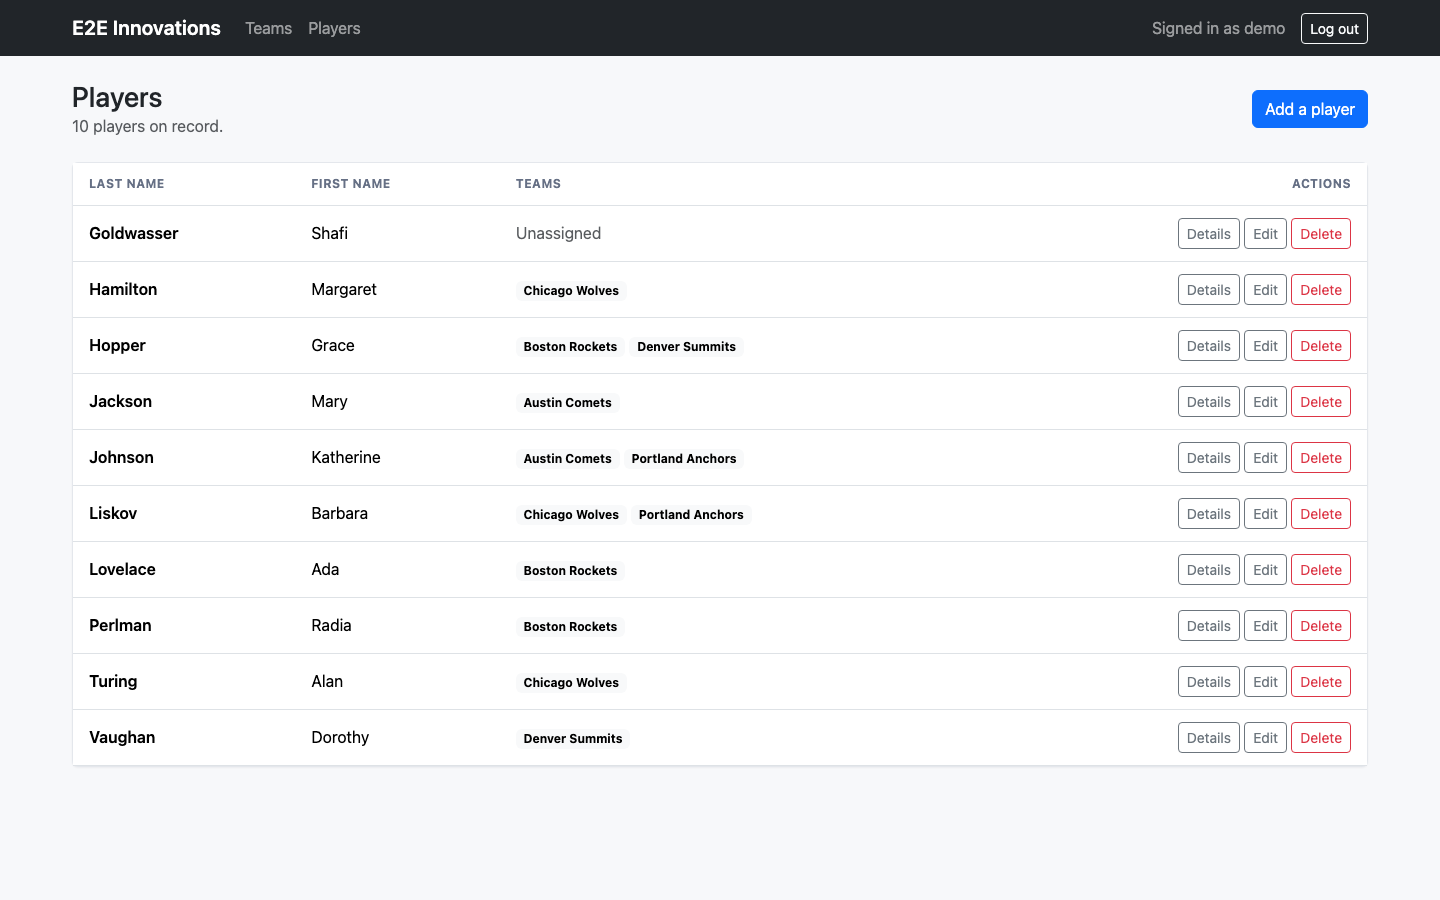
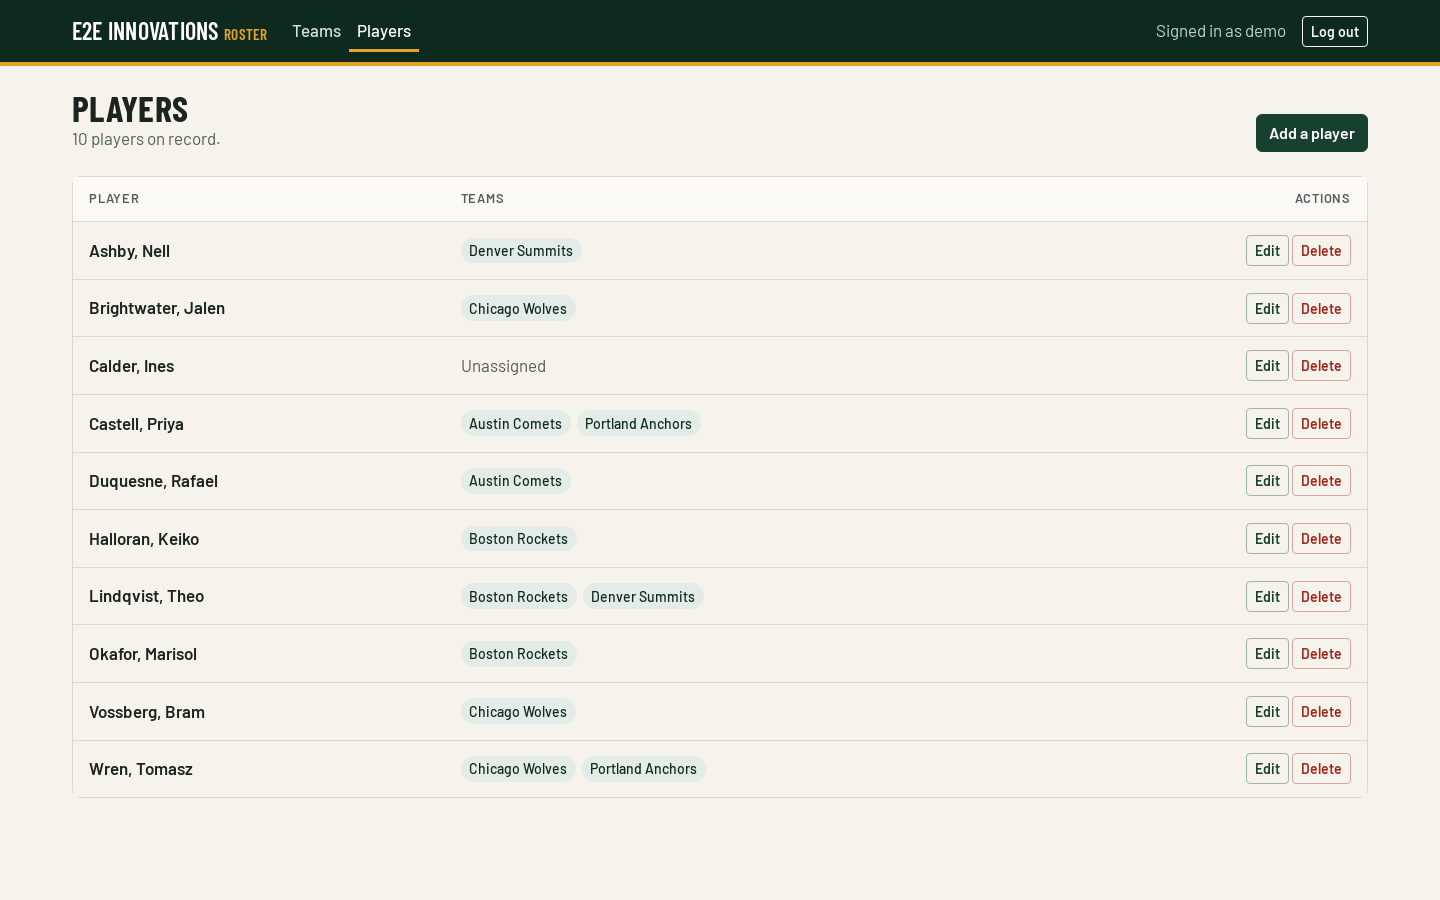
Rewrite the README around Compose and refresh the screenshots

diff --git a/README.md b/README.md
@@ -1,65 +1,122 @@
 # Sports Roster
 
-A Django app for managing sports teams and their players. Teams have a city and a mascot, players have a name, and a player can be on more than one team's roster. Everything sits behind a login. This was a coding exercise for E2E Innovations (the name in the navbar), so "E2E" refers to the client, not end-to-end testing.
+A Django app for managing sports teams and their players. A team is a city plus a mascot, a player has a first and last name, and one player can sit on several teams' rosters at once. Everything sits behind a login.
+
+This was a coding exercise for E2E Innovations (the name in the navbar), so "E2E" refers to the client, not end-to-end testing.
 
 ![Team list](docs/screenshots/team-list.png)
 
-What you can do:
+## What it does
 
 - Create, edit and delete teams and players
-- Assign players to multiple teams and see each team's roster
-- Sign up, log in and log out
-- Browse paginated team and player lists
+- Put a player on any number of teams by ticking checkboxes, and see each team's roster
+- An overview page with team and player totals and how many players have no team yet
+- Sign up, log in and log out (logout is POST-only)
+- Paginated team and player lists, with a confirmation message after every save or delete
+- A `/healthz/` endpoint that also checks the database, used by the container healthcheck
 
-It uses Django 5.2 LTS on Python 3.12 with class-based views, server-rendered Bootstrap 5 templates and SQLite. Gunicorn serves it in the container.
+Team names are unique regardless of case, so "boston rockets" is rejected when "Boston Rockets" already exists.
 
-## Getting started
+It runs on Django 5.2 LTS and Python 3.12, with class-based views, server-rendered Bootstrap 5 templates, SQLite, and Gunicorn in the container.
+
+| Players | Editing a player | On a phone |
+| --- | --- | --- |
+| ![Player list](docs/screenshots/player-list.png) | ![Player form](docs/screenshots/player-form.png) | ![Player list on a phone](docs/screenshots/mobile-player-list.png) |
+| **Overview** | **Team roster** | **Player form on a phone** |
+| ![Overview with totals](docs/screenshots/overview.png) | ![Boston Rockets roster](docs/screenshots/team-detail.png) | ![Player form on a phone](docs/screenshots/mobile-player-form.png) |
+
+## Running it with Docker Compose
+
+This is the shortest path and needs only Docker:
 
 ```bash
-python3 -m venv .venv && source .venv/bin/activate
+export DJANGO_SECRET_KEY="$(python3 -c 'import secrets; print(secrets.token_urlsafe(50))')"
+docker compose up --build -d
+docker compose exec web python manage.py seed_demo_data
+```
+
+Open http://localhost:8500/ and log in as `demo` / `demo-password-123`. The seed command creates five teams, ten players with invented names, and that user. Running it again changes nothing.
+
+The container runs migrations on start and keeps the SQLite file on the `sqlite-data` volume, so data survives `docker compose down`. Add `-v` to wipe it. To use another port, set `WEB_PORT` before `up`.
+
+Compose refuses to start without `DJANGO_SECRET_KEY`. You can also put it in a `.env` file next to `docker-compose.yml`; `.env.example` lists every variable.
+
+The health probe needs no login:
+
+```bash
+curl -s http://localhost:8500/healthz/
+```
+
+```json
+{"status": "ok", "database": "ok"}
+```
+
+## Running it with a local Python
+
+```bash
+python3.12 -m venv .venv && source .venv/bin/activate
 pip install -r requirements.txt
 
-export DJANGO_SECRET_KEY="$(python -c 'from django.core.management.utils import get_random_secret_key as k; print(k())')"
+export DJANGO_SECRET_KEY="$(python -c 'import secrets; print(secrets.token_urlsafe(50))')"
 python manage.py migrate
 python manage.py seed_demo_data
 python manage.py runserver 127.0.0.1:8500
 ```
 
-Then open http://127.0.0.1:8500/ and log in as `demo` / `demo-password-123`. The seed command creates a few teams and players along with that user.
-
-`DJANGO_SECRET_KEY` is required. With `DJANGO_DEBUG` off the app won't start without it.
-
-There is also a `Dockerfile` and `docker-compose.yml`. With the secret key exported, `docker compose up --build` should serve the app on http://localhost:8500/. The container setup has had less testing than the local run.
+With `DJANGO_DEBUG=1` the app falls back to a development key and the export can be skipped. With debug off, which is the default, it won't start without one.
 
 ### Configuration
 
-Settings come from environment variables (see `.env.example`):
+All settings come from environment variables:
 
-- `DJANGO_SECRET_KEY` (required)
-- `DJANGO_DEBUG`, default `0`
-- `DJANGO_ALLOWED_HOSTS`, default `localhost,127.0.0.1,[::1]`
-- `DJANGO_CSRF_TRUSTED_ORIGINS`
-- `DJANGO_SECURE_SSL`, turns on HTTPS redirect, secure cookies and HSTS
-- `DJANGO_DB_PATH`, location of the SQLite file
-- `DJANGO_LOG_LEVEL`, default `INFO`
-- `SPORTS_PAGE_SIZE`, default `25`
+| Variable | Default | Purpose |
+| --- | --- | --- |
+| `DJANGO_SECRET_KEY` | none | Required unless `DJANGO_DEBUG=1` |
+| `DJANGO_DEBUG` | `0` | Debug mode |
+| `DJANGO_ALLOWED_HOSTS` | `localhost,127.0.0.1,[::1]` | Comma-separated host names |
+| `DJANGO_CSRF_TRUSTED_ORIGINS` | empty | Needed when the app sits behind a proxy on another origin |
+| `DJANGO_SECURE_SSL` | `0` | HTTPS redirect, secure cookies and HSTS |
+| `DJANGO_DB_PATH` | `db.sqlite3` | SQLite file location (`/data/db.sqlite3` in the image) |
+| `DJANGO_LOG_LEVEL` | `INFO` | Root log level |
+| `SPORTS_PAGE_SIZE` | `25` | Rows per page on the lists |
+| `WEB_PORT` | `8500` | Host port for Compose |
+| `GUNICORN_WORKERS` | `3` | Worker count in the container |
 
-## Tests
+## Tests and lint
 
 ```bash
 pip install -r requirements-dev.txt
 pytest
-ruff check .
+ruff check . && ruff format --check .
 ```
 
-`pytest` runs against `sportsapp/settings_test.py`, which supplies a throwaway key, so nothing needs exporting first. The tests cover models, auth, views, settings and query counts.
+`pytest` uses `sportsapp/settings_test.py`, which supplies a throwaway key, so there is nothing to export first. The 65 tests cover models and constraints, auth and redirects, every view, the seed command, settings parsing, the error pages and query counts.
 
-## Code layout notes
+## How it is put together
 
-Views in `sports/views.py` stay thin and get their querysets from `sports/selectors.py`, which handles prefetching and annotations. This keeps the player list at a fixed number of queries no matter how many rows there are. `scripts/benchmark_roster.py` compares it against a naive queryset, and a sample run is saved in [docs/benchmark.txt](docs/benchmark.txt).
+```mermaid
+flowchart LR
+    Browser -->|HTTP| Gunicorn
+    Gunicorn --> URLs[sports/urls.py]
+    URLs --> Views[sports/views.py<br/>thin class-based views]
+    Views --> Selectors[sports/selectors.py<br/>prefetch and annotate]
+    Selectors --> Models[(Team / Player<br/>SQLite)]
+    Views --> Templates[templates/sports/*.html]
+```
+
+- Views stay thin. They name a template and get their querysets from `sports/selectors.py`, which owns the prefetching and the aggregate counts. The player list costs the same number of queries for 10 rows or 1,000, and `sports/tests/test_performance.py` asserts that.
+- `scripts/benchmark_roster.py` compares the selector against a naive queryset. A run inside a `python:3.12-slim` container is saved in [docs/benchmark.txt](docs/benchmark.txt): at 1,000 players the naive version issues 1,001 queries against the selector's 2.
+- The player/team link is a plain many-to-many with `related_name='players'`, so templates read `team.players`.
+- The 500 page renders without the request context. If the database is what failed, the error page doesn't need it.
+- Styling is a single `<style>` block in `base.html` on top of Bootstrap from a CDN. The app has no static files of its own, so Gunicorn needs no static file server.
 
 ## Limitations
 
-- Any logged-in user can edit or delete anything, there are no roles.
-- Signup is open with no email verification.
-- No search, just pagination.
+- Any logged-in user can edit or delete anything. There are no roles.
+- Signup is open, with no email verification.
+- No search, only pagination.
+- Bootstrap and the Google Fonts load from CDNs, so a fully offline machine gets unstyled pages.
+
+## License
+
+MIT, see [LICENSE](LICENSE).
